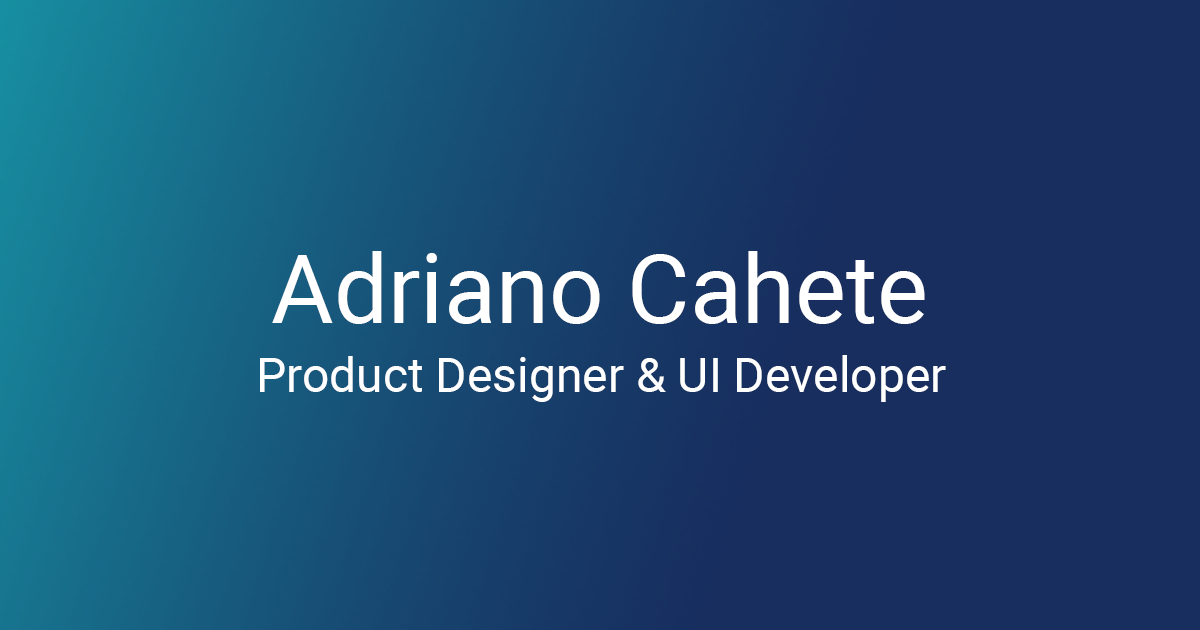
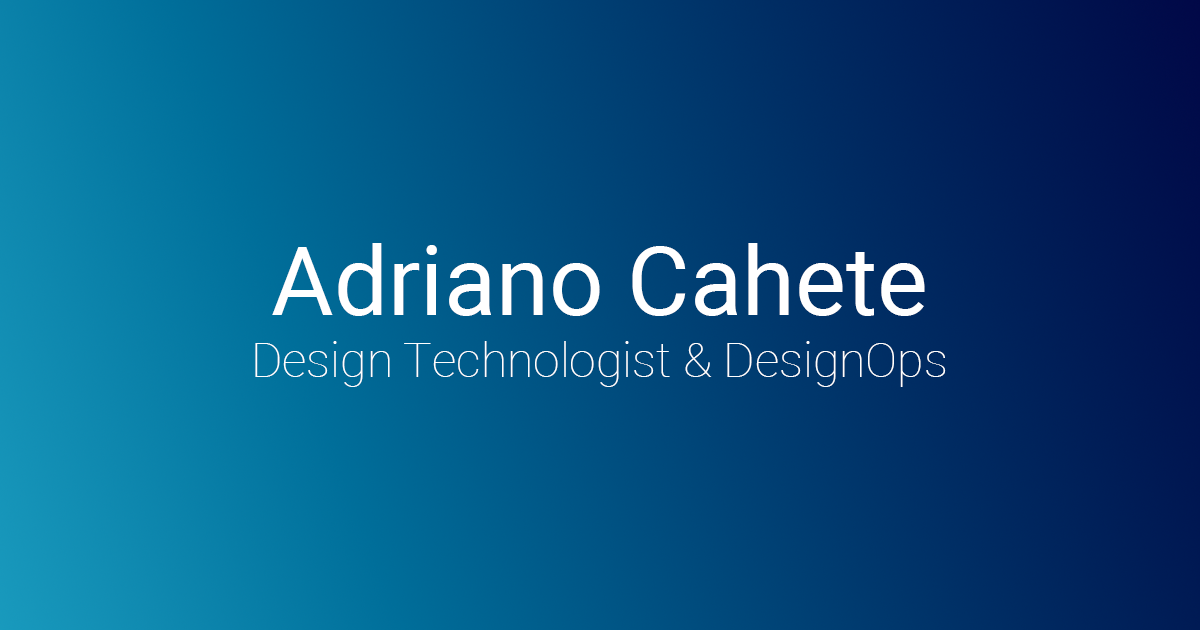
Update resume

diff --git a/pages/about/index.vue b/pages/about/index.vue
@@ -8,10 +8,11 @@
         </p>
         <p class="description">
           Working across some <strong>Product Design</strong> areas
-          (Interaction, Motion, UX, UI) as a <strong>Lead Designer</strong> and
-          crafting awesome User Experiences on digital products
+          (Interaction, Motion, UX, UI) as a <strong>Lead Designer</strong>,
+          <strong>Design Technologist</strong> and <strong>DesignOps</strong>,
+          and crafting awesome experiences on digital products.
           <strong>with +{{ workyears }} years of experience</strong> with
-          companies in Brazil, Netherlands and US.
+          companies in Netherlands, US and Brazil.
         </p>
         <p class="description">
           With a broad range of skills, from Design to Code, specialized to
@@ -51,49 +52,17 @@
           subtitle="Philips | Hero99 (Netherlands/Brazil)"
           info="Nov 2022 - Currently | Remote"
         />
-        <!-- :items="[
-            { name: 'Be the UI expert of the team on client\'s Design System' },
-            {
-              name: 'Worked closely with Product and Developer teams to design and document features for one of biggest banks in Brazil',
-            },
-            {
-              name: 'Interfaced with other designers and developers to ensure coherent UI/UX across different products',
-            },
-          ]" -->
         <Card
           animation-delay="0.3"
           title="Product Designer & Design Technologist"
           subtitle="Bradesco | Capgemini (France/Brazil)"
           info="Mai 2021 - Nov 2022 | Remote"
-          :items="[
-            { name: 'Be the UI expert of the team on client\'s Design System' },
-            {
-              name: 'Worked closely with Product and Developer teams to design and document features for one of biggest banks in Brazil',
-            },
-            {
-              name: 'Interfaced with other designers and developers to ensure coherent UI/UX across different products',
-            },
-          ]"
         />
         <Card
           animation-delay="0.4"
           title="Lead Product Designer & Design Technologist"
           subtitle="SAI Global (US/Netherlands)"
           info="Jan 2017 - Apr 2020 | Remote"
-          :items="[
-            {
-              name: 'Developed highly interactive prototypes and shipped the same UIs on delivered product',
-            },
-            {
-              name: 'Worked closely with Product Owners and developer team to design and document features for SAI360 Digital Risk & SAI360 BWise Vendor Risk Management',
-            },
-            {
-              name: 'Interfaced with other designers and developers in different timezones to ensure coherent UI/UX across five different products with different technologies',
-            },
-            {
-              name: 'Developed Style Guides for multiple different products and technologies',
-            },
-          ]"
         />
         <!--   -->
         <Card
@@ -101,20 +70,6 @@
           title="Product Designer & FrontEnd Developer"
           subtitle="Modulo Security Solutions (Brazil)"
           info="Oct 2012 - Dec 2016 | Hybrid/Partially Remote"
-          :items="[
-            {
-              name: 'Write modern, maintainable and performant code for Modulo Risk Manager',
-            },
-            {
-              name: 'Created a workflow to make UIs more alike to the designed ones',
-            },
-            {
-              name: 'Worked with Rio\'s Public Security Stakeholders in Integrated Command & Control Center to bring a most efficient Interface for 911 operators in Brazil',
-            },
-            {
-              name: 'Performed the layer between design and development, talking in a way that the developers understands',
-            },
-          ]"
         />
       </section>
       <section id="work" class="section-col">
@@ -130,8 +85,8 @@
             {
               name: 'UX/UI: Principles of Interface Design (University of Sao Paulo/Brazil) - 2020',
             },
-            { name: 'Microsoft Front End Web Development (DEV237x) – 2019' },
-            { name: 'Programming in HTML5 with JavaScript and CSS3 – 2019' },
+            { name: 'Microsoft Front End Web Development (DEV237x) - 2019' },
+            { name: 'Programming in HTML5 with JavaScript and CSS3 - 2019' },
           ]"
         />
       </section>
@@ -224,7 +179,7 @@ export default {
       return this.date.getMonth() + 1;
     },
     workyears() {
-      return Math.abs(this.date.getFullYear() - 2012);
+      return Math.abs(this.date.getFullYear() - 2010);
     },
   },
 

diff --git a/assets/styles/components/section.scss b/assets/styles/components/section.scss
@@ -18,9 +18,11 @@
 
 .section-row {
   display: flex;
+  justify-content: space-between;
   text-align: left;
   padding-top: 2vh;
   padding-left: 2vw;
+  width: 100%;
 
   .section-col {
     max-width: 50%;
